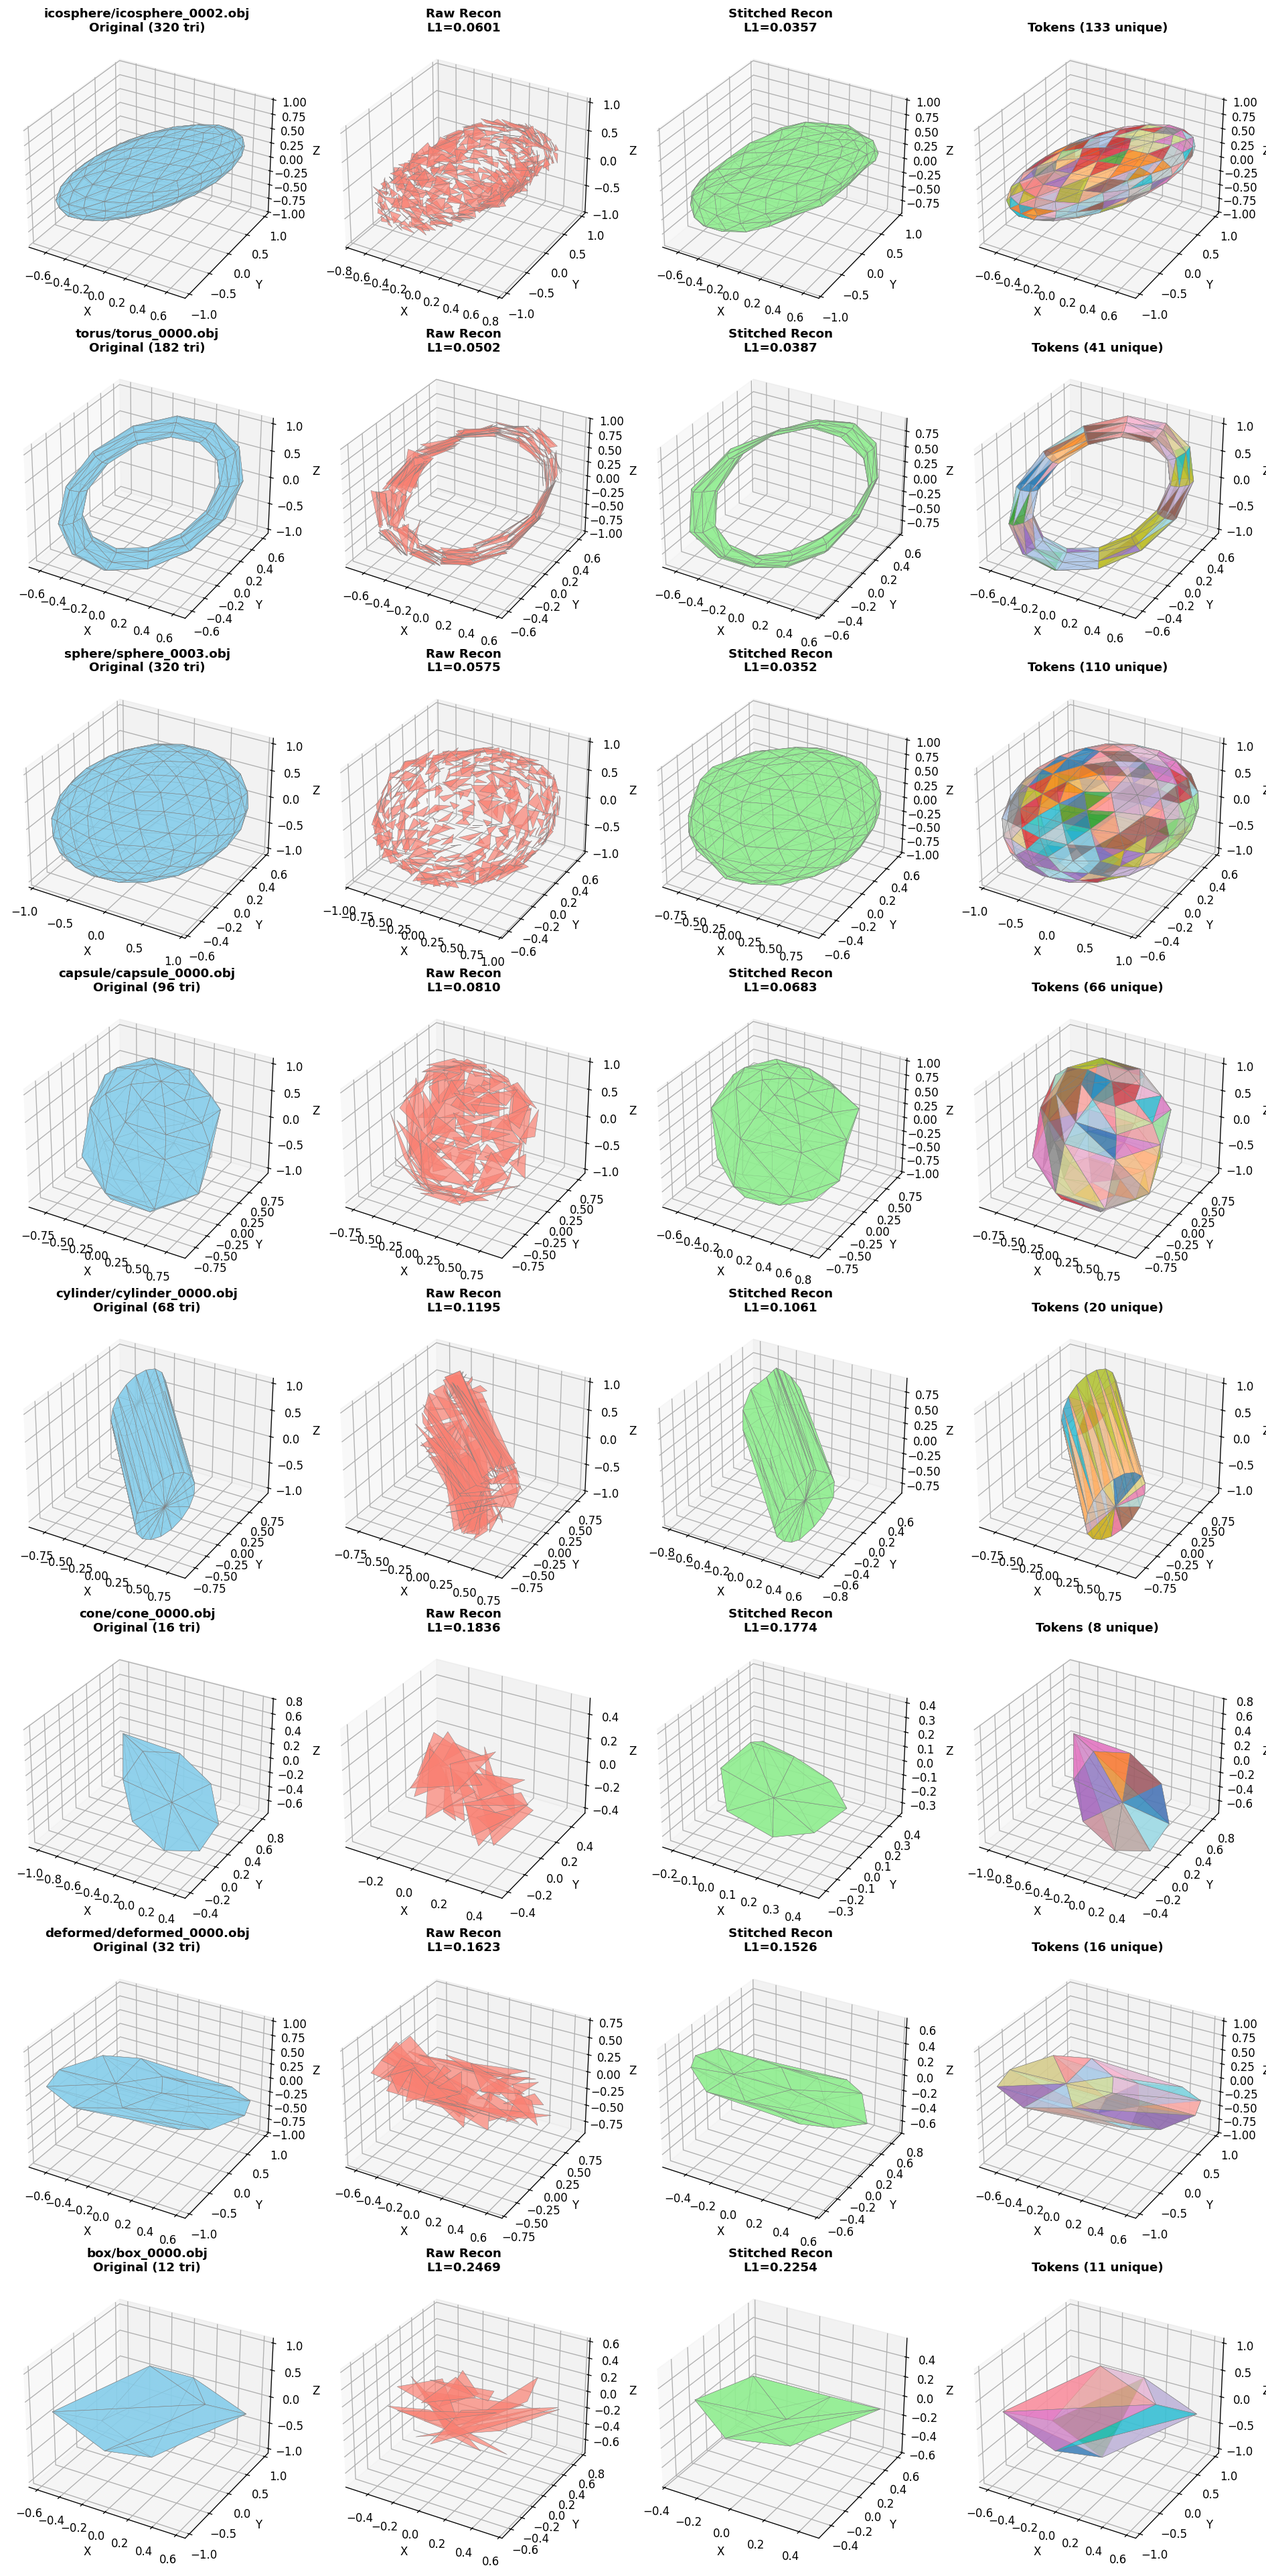
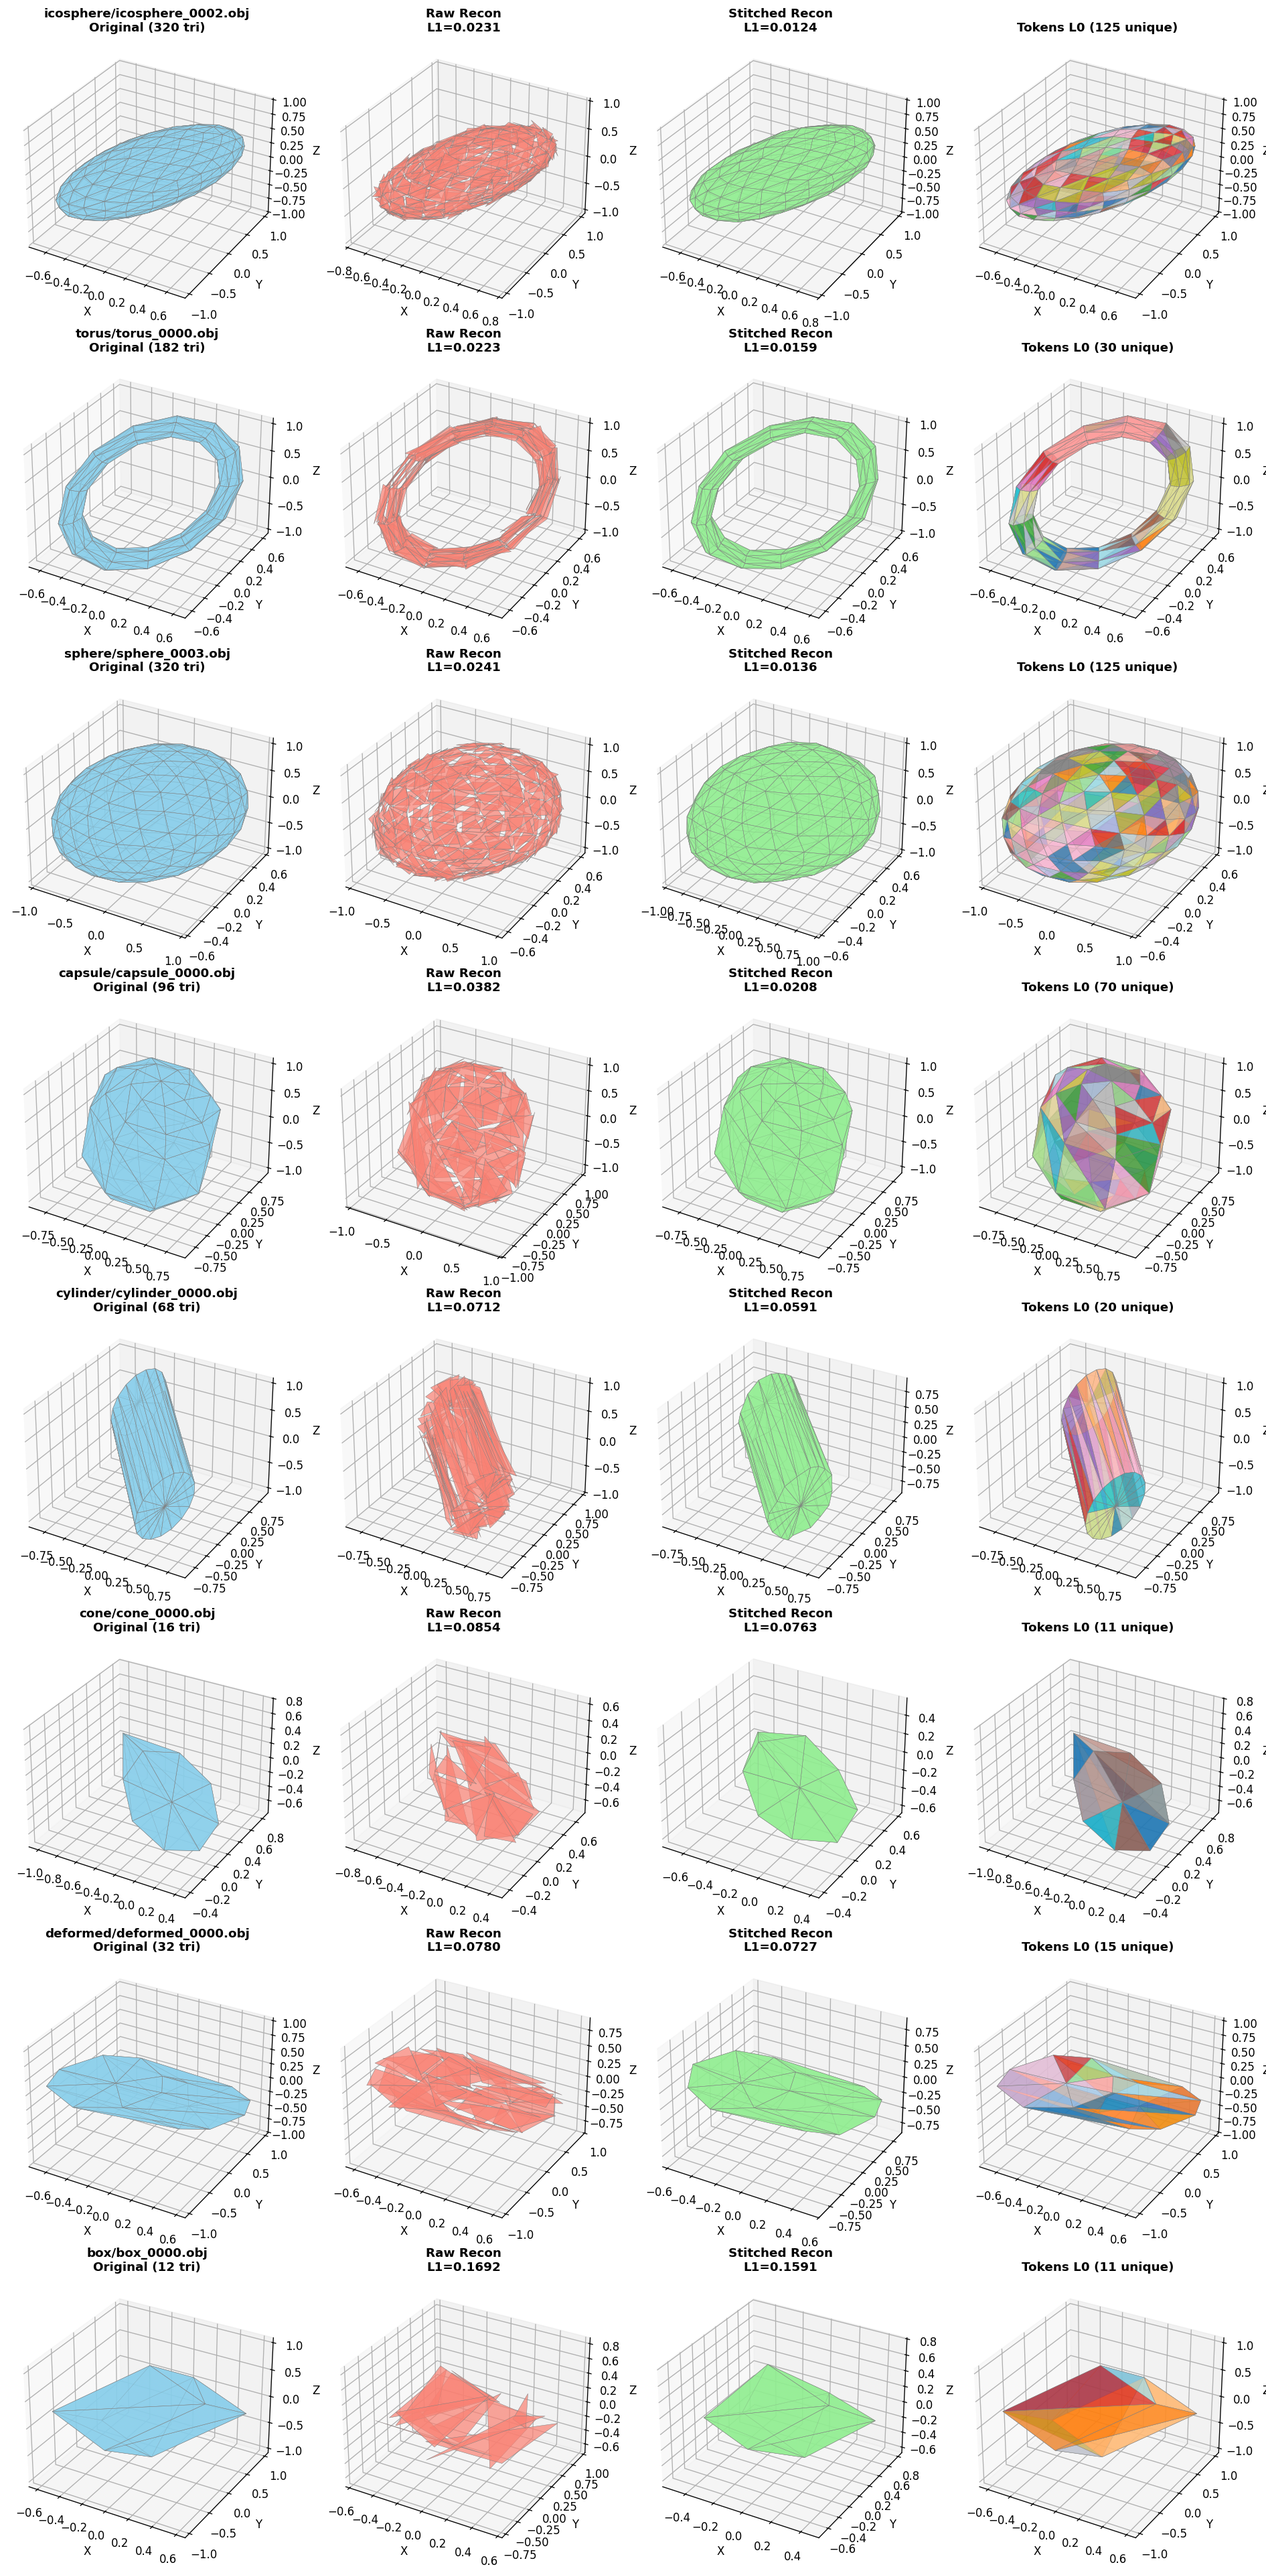
Update docs and visualization for 3-level Residual VQ results
Retrained on the same 425-mesh dataset with 3-level RVQ: best val
reconstruction drops from 0.079 (plain VQ) to 0.041. Every category
gains roughly 2x on stitched L1, including the hardest boxes category
(0.218 -> 0.125). All three codebooks are actively used (97 / 96 / 85 %
utilization). Refreshes README, RESULTS.md and per_category.png.

diff --git a/RESULTS.md b/RESULTS.md
@@ -6,46 +6,60 @@ Trained on 425 low-poly meshes across 8 categories for 300 epochs
 ## Model
 
 - Encoder: 4x SAGEConv (9 → 64 → 128 → 256 → 128 = latent_dim)
-- Quantizer: VQ with 512 codes, EMA updates, dead-code reset
+- Quantizer: 3-level Residual VQ, 512 codes per level, EMA updates, dead-code reset
 - Decoder: 4x SAGEConv (128 → 256 → 256 → 128 → 9)
 - Losses: cyclic-permutation L1 recon + VQ commitment + 0.3 x vertex consistency
 
 ## Per-category reconstruction (20 meshes per category, stitched)
 
-| Category   |  N  | Raw L1  | Stitched L1 | Tokens / triangle |
-|------------|----:|--------:|------------:|------------------:|
-| torus      |  20 |  0.0483 |  **0.0355** |             19.3% |
-| icosphere  |  19 |  0.0568 |  **0.0343** |             37.6% |
-| sphere     |  20 |  0.0762 |      0.0523 |             56.0% |
-| capsule    |  20 |  0.0942 |      0.0815 |             46.4% |
-| cylinder   |  20 |  0.1140 |      0.0996 |             41.6% |
-| cone       |  20 |  0.1420 |      0.1274 |             46.8% |
-| deformed   |  20 |  0.1623 |      0.1463 |             59.8% |
-| box        |  20 |  0.2363 |      0.2181 |             86.5% |
-| **Average**|     |  0.1163 |  **0.0994** |                   |
+Comparison of plain VQ (single level) vs 3-level Residual VQ:
 
-Best val loss: 0.0793 (epoch 295).
+| Category   | Plain VQ L1 | RVQ L1 (3 levels) | Raw L1 (RVQ) | L0 usage | L1 usage | L2 usage |
+|------------|------------:|------------------:|-------------:|---------:|---------:|---------:|
+| icosphere  |       0.034 |         **0.013** |        0.023 |    43.4% |    54.7% |    49.8% |
+| torus      |       0.036 |         **0.014** |        0.022 |    17.7% |    40.9% |    49.5% |
+| sphere     |       0.052 |         **0.022** |        0.033 |    59.9% |    68.2% |    67.0% |
+| capsule    |       0.082 |         **0.033** |        0.044 |    46.1% |    68.0% |    77.5% |
+| cylinder   |       0.100 |         **0.044** |        0.055 |    42.3% |    67.9% |    78.9% |
+| cone       |       0.127 |         **0.062** |        0.073 |    47.4% |    80.7% |    89.2% |
+| deformed   |       0.146 |         **0.084** |        0.094 |    60.7% |    84.8% |    88.8% |
+| box        |       0.218 |         **0.125** |        0.137 |    83.5% |    91.3% |    92.8% |
+| **Average**|       0.099 |         **0.050** |        0.060 |          |          |          |
+
+Best val recon: 0.0413 (epoch 270) vs 0.0793 for plain VQ.
+
+Global codebook utilization across the evaluation set:
+- Level 0: 496/512 active (96.9%), 16 dead
+- Level 1: 492/512 active (96.1%), 20 dead
+- Level 2: 436/512 active (85.2%), 76 dead
 
 ## Observations
 
-1. The model excels on shapes with repetitive local geometry (torus,
-   icosphere, sphere) - exactly what VQ is designed to exploit. Tokens
-   are reused heavily (only 19% unique tokens per triangle on the torus)
-   which means strong compression.
-2. Boxes are the pathological case: 12 triangles that are all different
-   from one another, no repetition to exploit. 86% of triangles get a
-   unique token and reconstruction error is highest.
-3. Stitching always helps. Raw per-triangle predictions are noisy at
-   shared edges; averaging across triangles sharing a vertex produces
-   watertight, visually clean results.
-4. The vertex consistency loss (weight 0.3) improves overall val recon
-   from 0.084 to 0.079 and drastically reduces the gap between raw and
-   stitched reconstructions for most categories.
+1. Residual VQ halves the reconstruction error across every single
+   category. The gain is largest on simple shapes (torus, icosphere)
+   because the higher levels can afford to encode minute residuals
+   instead of spending code capacity on coarse shape.
+2. Boxes are still the hardest case but improved from L1 = 0.218 to
+   0.125 (43% reduction). Their level-0 / level-1 / level-2 token usage
+   per triangle is 84 / 91 / 93 %, meaning almost every triangle gets a
+   unique code at every level: no repetition to compress, the model
+   essentially memorizes each triangle across the 3 codebooks.
+3. For symmetric shapes (torus, sphere), level 0 uses very few unique
+   tokens per triangle (18 % for torus!) while levels 1 and 2 reuse more
+   tokens too. The coarse+residual decomposition matches the geometric
+   hierarchy of the shape.
+4. All three codebooks are well utilized: 97 / 96 / 85 % active codes.
+   Dead codes are still reset every 20 steps, keeping the codebook
+   healthy even with a 3-level stack.
 
 ## Training knobs that mattered
 
+- **Residual VQ** (3 levels): biggest single win in this project. Every
+  category improved roughly 2x on stitched L1 with no change to
+  encoder/decoder/loss. Drop-in replacement for plain VQ.
 - Two-phase training (warmup as plain AE, then activate VQ with codebook
-  initialized from encoder outputs) stabilized VQ learning.
+  initialized from encoder outputs) stabilized VQ learning; essential
+  for RVQ where codebook init at each level is sequential.
 - Removing L2 normalization from the quantizer eliminated periodic
   `vq_loss` spikes caused by the mismatch between cosine-based lookup
   and MSE-based commitment.

diff --git a/README.md b/README.md
@@ -21,14 +21,14 @@ A from-scratch reimplementation of the Vector Quantized Variational Autoencoder 
        │  z_e ∈ ℝ^(N_triangles × 256)
        ▼
 ┌──────────────┐
-│  Vector       │   Codebook of 512 vectors (dim=256)
-│  Quantizer    │   Straight-through estimator + commitment loss
+│  Residual VQ  │   3 levels × 512 codes (dim=128)
+│  (RVQ)        │   z_q = q_L0 + q_L1 + q_L2 (sum of codebook vectors)
 └──────┬───────┘
-       │  z_q ∈ ℝ^(N_triangles × 256)
+       │  z_q ∈ ℝ^(N_triangles × 128)
        ▼
 ┌──────────────┐
-│  Decoder      │   MLP: 256 → 256 → 128 → 9
-│  (MLP)        │   Reconstructs 3 vertex coords per triangle
+│  Decoder      │   4 × SAGEConv layers
+│  (GNN)        │   128 → 256 → 256 → 128 → 9
 └──────────────┘
        │
        ▼
@@ -45,7 +45,8 @@ vq-vae/
 ├── mesh_dataset.py      # ShapeNet .obj loading + triangle graph construction
 ├── encoder.py           # 4-layer SAGEConv GNN encoder
 ├── vector_quantizer.py  # Vector Quantization with EMA updates
-├── decoder.py           # MLP decoder for coordinate reconstruction
+├── residual_vector_quantizer.py  # Residual VQ (N stacked VQ levels)
+├── decoder.py           # GNN decoder for coordinate reconstruction
 ├── model.py             # Full VQ-VAE model
 ├── train.py             # Training loop
 └── evaluate.py          # Evaluation and mesh visualization
@@ -82,33 +83,39 @@ python evaluate.py --checkpoint checkpoints/best_model.pth --data_dir data/shape
 
 - **Graph construction**: Each triangle is a node. Two triangles sharing an edge are connected. Node features are the 9 flattened vertex coordinates (3 vertices × 3 coords).
 - **Encoder**: GraphSAGE convolutions propagate information across neighboring triangles, building a contextual embedding per triangle.
-- **VQ**: Standard VQ with EMA codebook updates and commitment loss (beta=0.25). Codebook size 512, dimension 256.
-- **Decoder**: Simple MLP since we decode per-triangle independently (the graph structure is already captured in the quantized embeddings).
+- **Residual VQ**: Stack of 3 codebooks of 512 entries each (dim=128). Each level quantizes the residual of the previous one, and the final latent is the sum of codebook vectors. Rare triangles use the later levels for detail.
+- **Decoder**: Mirror GraphSAGE GNN so neighboring triangles coordinate their vertex predictions via message passing.
+- **Losses**: cyclic-permutation L1 reconstruction (handles triangle vertex ordering) + VQ commitment + vertex consistency loss (pulls coords of shared vertices together).
 
 ## Results
 
 Trained on 425 low-poly meshes across 8 categories for 300 epochs
-(30 epoch autoencoder warmup + 270 epoch VQ phase).
+(30 epoch autoencoder warmup + 270 epoch RVQ phase).
 
 ![Per-category reconstructions](visualizations/per_category.png)
 
-Stitched reconstruction L1 per category (20 meshes each, mean over all categories = **0.099**):
+Stitched reconstruction L1 per category with 3-level Residual VQ
+(20 meshes each, mean over all categories = **0.050**):
 
-| Category   | Stitched L1 |
-|------------|------------:|
-| icosphere  |       0.034 |
-| torus      |       0.036 |
-| sphere     |       0.052 |
-| capsule    |       0.082 |
-| cylinder   |       0.100 |
-| cone       |       0.127 |
-| deformed   |       0.146 |
-| box        |       0.218 |
-| **Mean**   |   **0.099** |
+| Category   | Plain VQ (1 level) | **RVQ (3 levels)** | Speedup |
+|------------|-------------------:|-------------------:|--------:|
+| icosphere  |              0.034 |          **0.013** |    2.6× |
+| torus      |              0.036 |          **0.014** |    2.5× |
+| sphere     |              0.052 |          **0.022** |    2.3× |
+| capsule    |              0.082 |          **0.033** |    2.4× |
+| cylinder   |              0.100 |          **0.044** |    2.3× |
+| cone       |              0.127 |          **0.062** |    2.1× |
+| deformed   |              0.146 |          **0.084** |    1.7× |
+| box        |              0.218 |          **0.125** |    1.7× |
+| **Mean**   |          **0.099** |          **0.050** | **2.0×** |
 
-Shapes with repetitive local geometry (torus, icosphere, sphere) compress
-well and reconstruct with very low error. Irregular low-poly meshes with
-no motif repetition (boxes) are the hardest case.
+Moving from plain VQ to 3-level Residual VQ halves the reconstruction
+error across every category. The first level captures the coarse shape,
+while levels 1 and 2 absorb the residuals - this is exactly the design
+choice that helps the hardest irregular meshes (boxes: 0.218 → 0.125).
+
+Codebook utilization (across all eval meshes): 96.9% / 96.1% / 85.2% at
+levels 0/1/2 - all three levels are actively used.
 
 See [RESULTS.md](RESULTS.md) for the full breakdown including raw L1 and
 token-reuse statistics.
